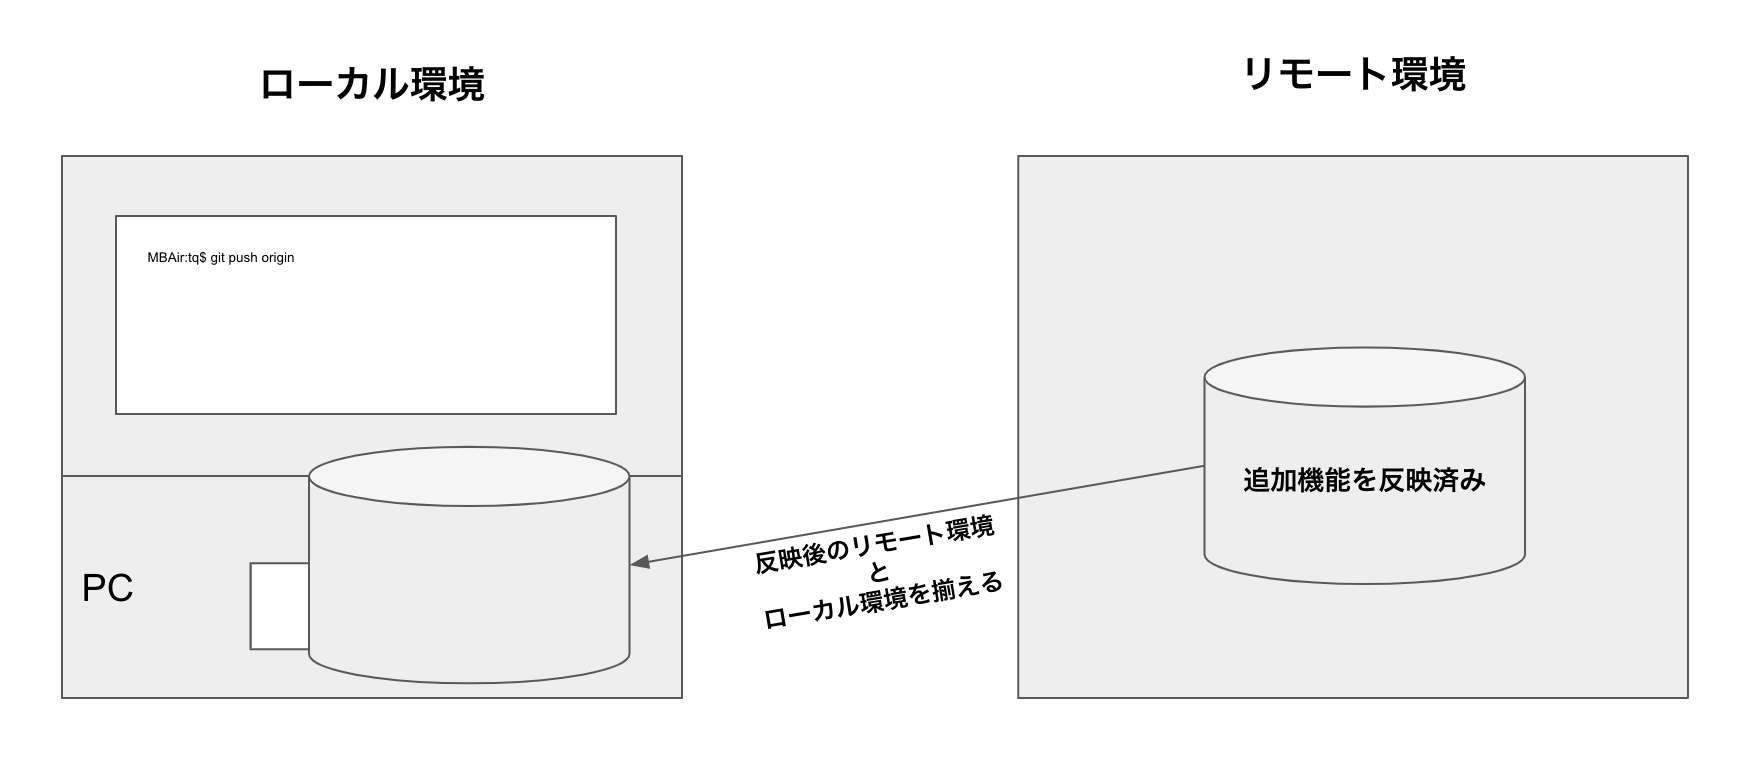
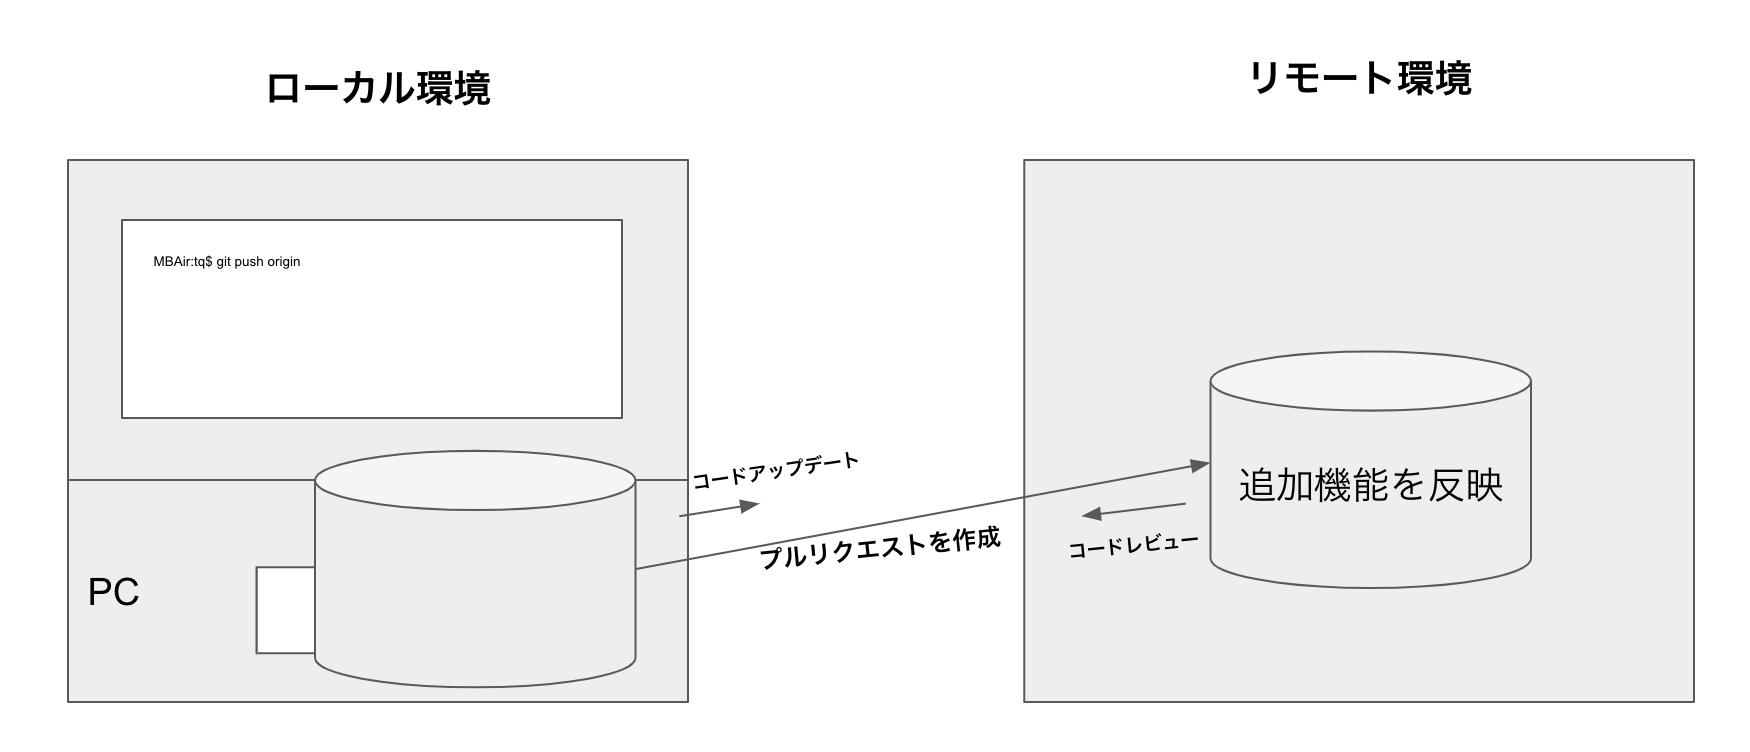
練習4の教材の作成

diff --git a/web_application/git/git_practice_file4.md b/web_application/git/git_practice_file4.md
@@ -1,0 +1,81 @@
+## Gitとは
+    開発を行う際に使われるシステム
+
+## 練習4の流れ
+1. 他人のアカウントのリモートリポジトリをコピーする
+![git fork イメージ図](images/fork_image.png)
+
+1. リモートリポジトリをローカルリポジトリにコピーする
+![git clone イメージ図](images/clone_image.png)
+
+1. ブランチの作成
+![git clone イメージ図](images/branch_image.png)
+
+1. 機能を追加
+![お問い合わせフォーム画像](images/contact_form_pic.png)
+
+1. リモートリポジトリに変更履歴を共有
+![git push イメージ図](images/development_with_branch_image.png)
+
+1. プルリクエストの作成
+1. 新しいブランチ作成
+![git clone イメージ図](images/branch_image.png)
+1. 機能追加
+1. マージ(追加機能を反映)
+![git push イメージ図](images/pullrequest_merge_image.png)
+
+1. ブランチの状態を最新にあわせる
+![git push イメージ図](images/rebase_image.png)
+
+
+## やってみよう
+1. 他人のアカウントのリモートリポジトリをコピーする
+    - 練習1でやったことをおもいだしてみよう
+1. リモートリポジトリをローカルリポジトリにコピーする
+    - 練習1でやったことをおもいだしてみよう
+1. ブランチの作成
+    - 練習2でやったことをおもいだしてみよう
+1. 機能を追加
+    - 練習1でやったことをおもいだしてみよう
+1. リモートリポジトリに変更履歴を共有
+    - 練習1でやったことをおもいだしてみよう
+1. プルリクエストの作成
+    - 練習3でやったことをおもいだしてみよう
+1. 新しいブランチ作成
+    ```
+    git branch -a
+    git checkout (master)
+    git checkout -b 作成するブランチ名
+    git branch -a
+    git push -u origin 作成したブランチ名
+    ```
+1. 機能追加
+    - 練習1でやったことをおもいだしてみよう
+1. マージ
+    - 練習3でやったことをおもいだしてみよう
+1. ブランチの状態を最新にあわせる
+    ```
+    git add .
+    git commit “コミットメッセージ”
+    git checkout (master)
+    git pull origin
+    git checkout ブランチ名
+    git branch -a
+    git rebase (master)
+    git push origin --force-with-lease
+    ```
+1. プルリクエストの作成
+    - 練習3でやったことをおもいだしてみよう
+1. マージ
+    - 練習3でやったことをおもいだしてみよう
+
+## 解説
+    git checkout (master) = (master) ブランチに移動する
+
+    git pull origin = リモートリポジトリの選択したブランチ から最新状態をローカルブランチの選択したブランチに反映させる
+
+    git rebase (master) = 現在いるブランチの状態と指定したブランチの状態をあわせる
+
+    git push origin --force-with-lease = ローカルとリモートを比較しローカルが最新か確認。
+    最新でなければ、PUSHを失敗にしてくれる。
+
